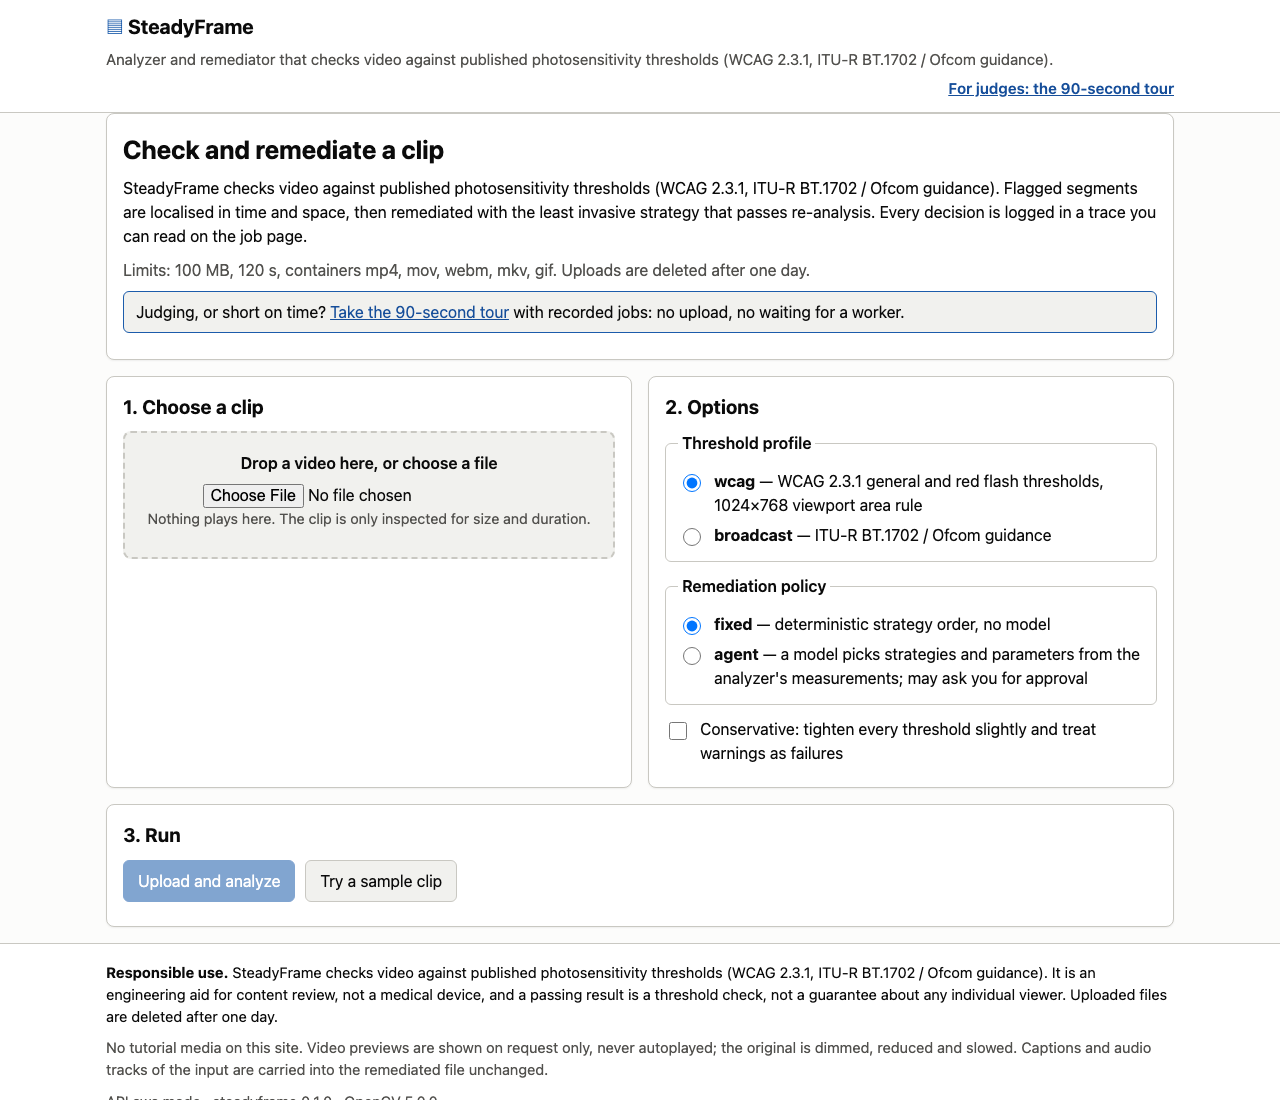
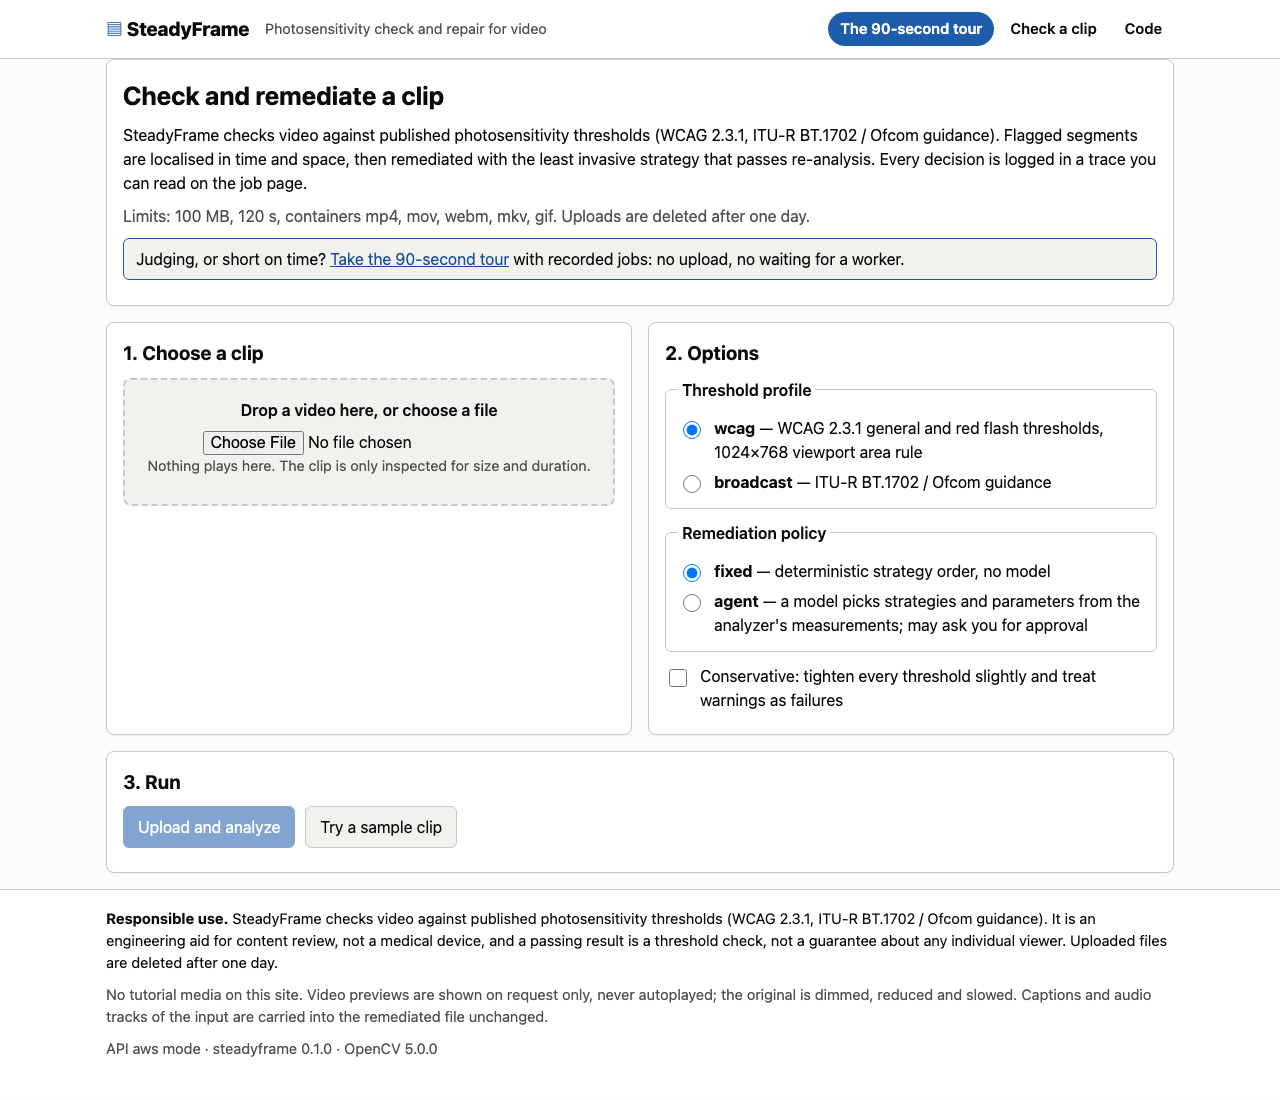
web: limit label sits in the quiet gap; screenshots of the new tour

diff --git a/web/src/pages/JudgePage.tsx b/web/src/pages/JudgePage.tsx
@@ -76,6 +76,12 @@ function RateChart({ before, after, segments, duration }: { before: Timeline; af
   };
   const ticks = Array.from({ length: Math.floor(duration) + 1 }, (_, i) => i).filter((t) => duration <= 12 || t % 2 === 0);
   const pb = peak(before.general_rate_hz), pa = peak(after?.general_rate_hz);
+  // the label goes in the middle of the widest stretch without a hazard, clear of the lines
+  const edges = [0, ...[...segments].sort((a, b) => a.start_s - b.start_s).flatMap((s) => [s.start_s, s.end_s]), duration];
+  let quietMid = duration / 2, widest = -1;
+  for (let i = 0; i + 1 < edges.length; i += 2) {
+    if (edges[i + 1] - edges[i] > widest) { widest = edges[i + 1] - edges[i]; quietMid = (edges[i] + edges[i + 1]) / 2; }
+  }
   return (
     <svg className="jx-chart" viewBox={`0 0 ${W} ${H}`} role="img"
       aria-label={`Flashes per second over ${duration.toFixed(0)} seconds: before the fix the peak is ${pb.toFixed(0)}; after it, ${pa.toFixed(1)}; the limit is 3.`}>
@@ -92,7 +98,7 @@ function RateChart({ before, after, segments, duration }: { before: Timeline; af
         <text key={t} className="jx-chart-label" x={x(t)} y={H - 10} textAnchor="middle">{t}s</text>
       ))}
       <line className="jx-chart-limit" x1={ML} x2={W - MR} y1={y(3)} y2={y(3)} />
-      <text className="jx-chart-limit-label" x={ML + 8} y={y(3) - 8}>limit: 3 flashes a second</text>
+      <text className="jx-chart-limit-label" x={x(quietMid)} y={y(3) - 8} textAnchor="middle">limit: 3 flashes a second</text>
       <path className="jx-chart-before" d={path(before)} />
       {after && <path className="jx-chart-after" d={path(after)} />}
     </svg>
